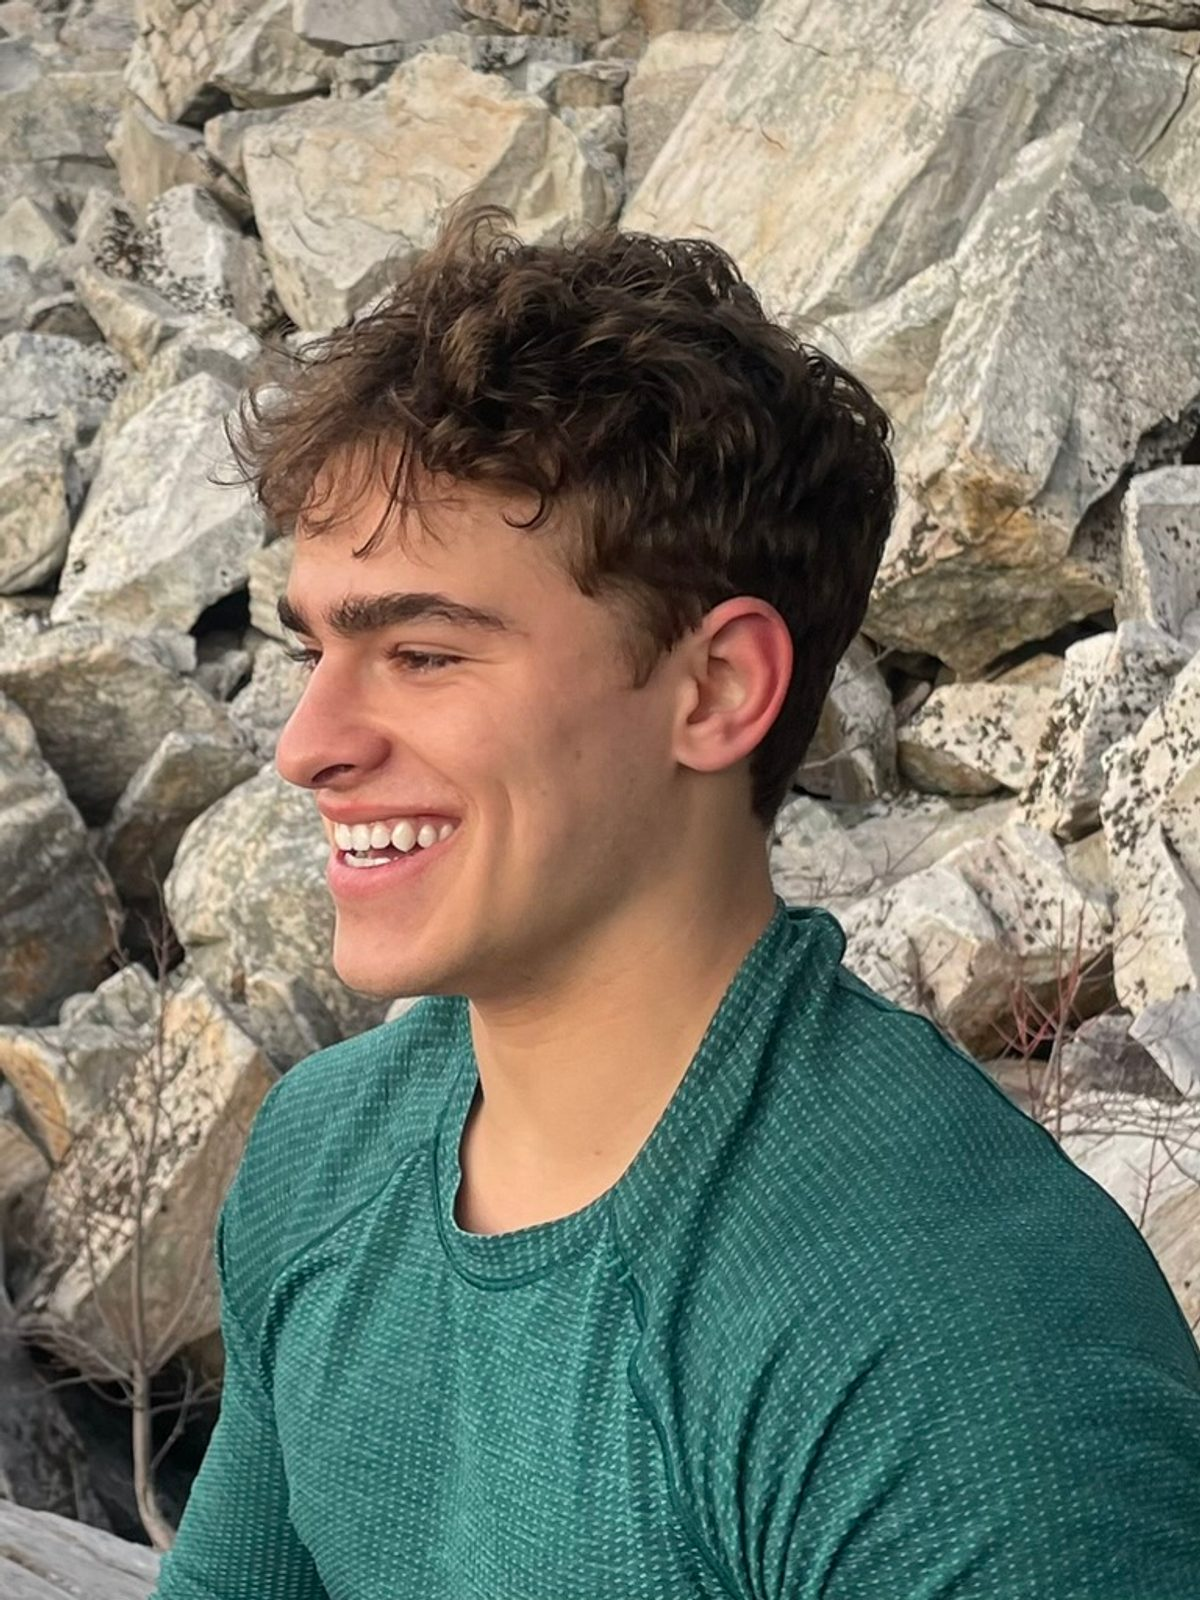
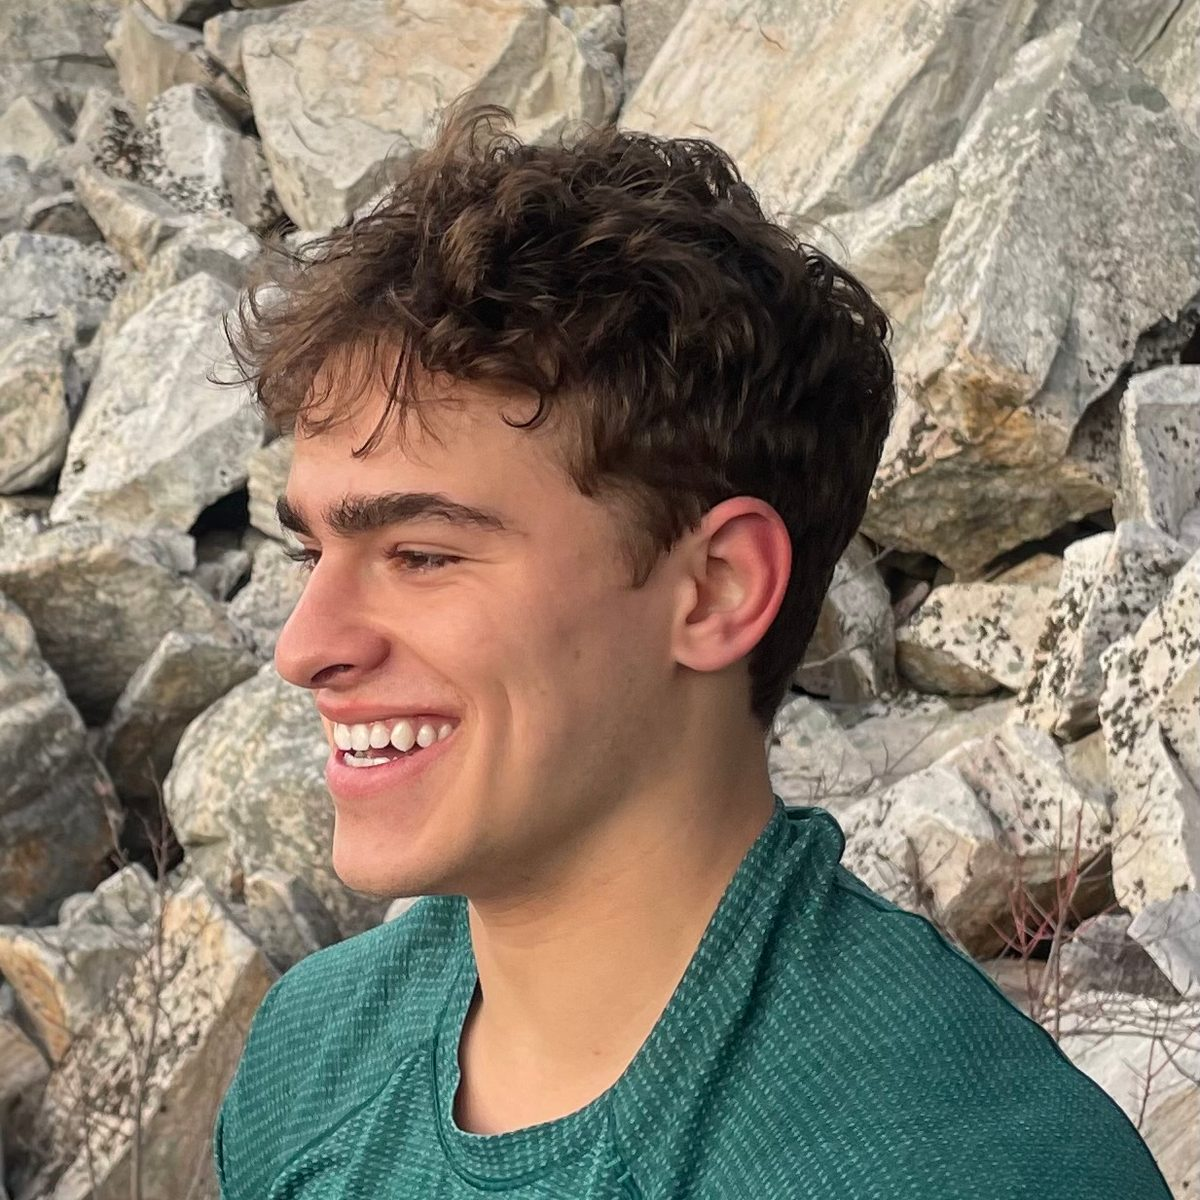
Use square portrait for SERP thumbnail

diff --git a/index.html b/index.html
@@ -63,7 +63,7 @@
     <meta property="og:image:secure_url" content="https://jacksonmaroon.com/portrait-google.jpg" />
     <meta property="og:image:type" content="image/jpeg" />
     <meta property="og:image:width" content="1200" />
-    <meta property="og:image:height" content="1600" />
+    <meta property="og:image:height" content="1200" />
     <meta property="og:image:alt" content="Portrait of Jackson Maroon" />
     <meta property="og:see_also" content="https://linkedin.com/in/jacksonmaroon" />
     <meta property="og:see_also" content="https://github.com/JacksonMaroon" />
@@ -199,7 +199,7 @@
             "@id": "https://jacksonmaroon.com/#portrait",
             "url": "https://jacksonmaroon.com/portrait-google.jpg",
             "width": 1200,
-            "height": 1600,
+            "height": 1200,
             "caption": "Portrait of Jackson Maroon"
           },
           {
